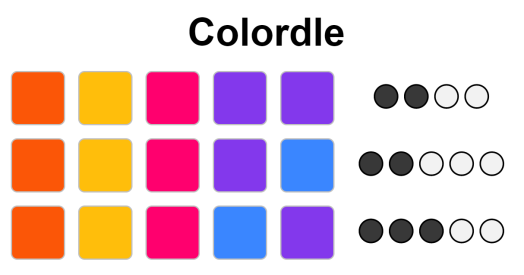
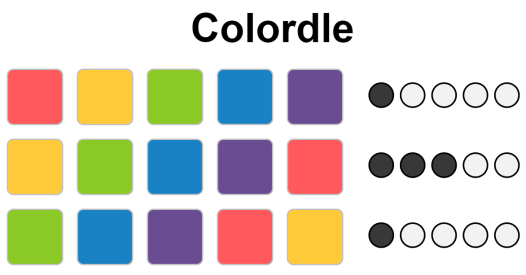
Changed up the palette per feedback

diff --git a/index.html b/index.html
@@ -82,11 +82,11 @@ body.colorBlindMode .cell {
    cursor: pointer;
 }
 #enter, #delete { color: white; }
-.value-0 { background-color: #ffbe0b; }
-.value-1 { background-color: #fb5607; }
-.value-2 { background-color: #ff006e; }
-.value-3 { background-color: #8338ec; }
-.value-4 { background-color: #3a86ff; }
+.value-0 { background-color: #ff595e; }
+.value-1 { background-color: #ffca3a; }
+.value-2 { background-color: #8ac926; }
+.value-3 { background-color: #1982c4; }
+.value-4 { background-color: #6a4c93; }
 #enter {
    width: 80px; 
 }
